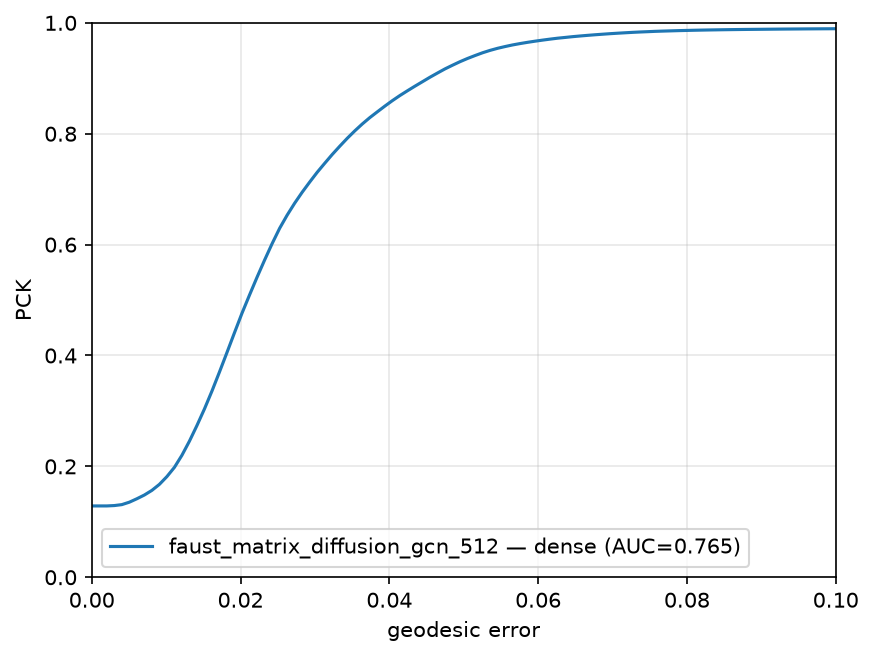
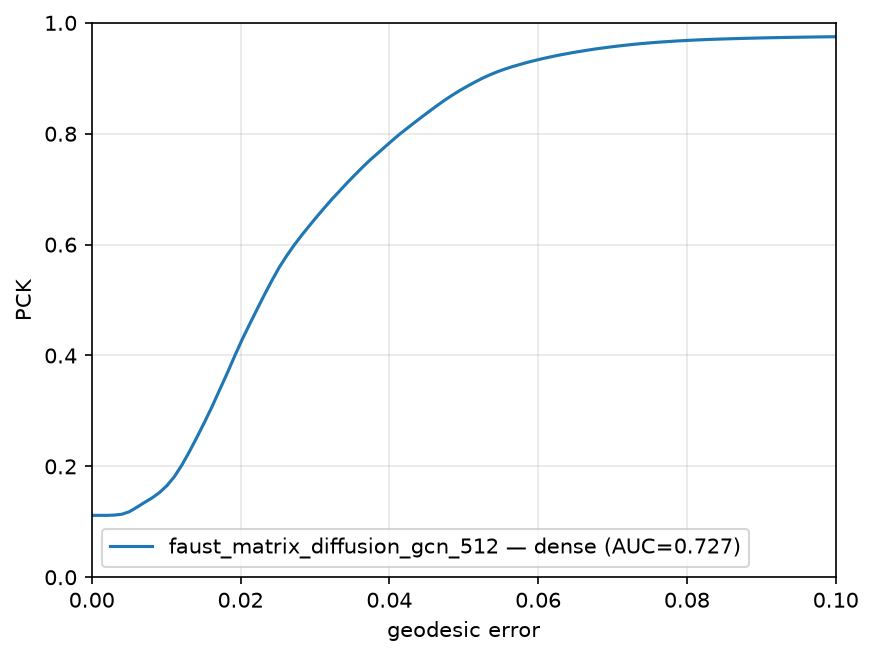
WKS Dense Feature Eval
Evaluated the inital 512 vert sparse correspondences using WKS as the
dense feature representation.

diff --git a/utils/spectral_features.py b/utils/spectral_features.py
@@ -1,0 +1,33 @@
+"""Spectral point descriptors from the Laplace-Beltrami eigen-decomposition.
+
+These are intrinsic (isometry-invariant) and directly comparable across shapes, computed from
+the cached LBO spectrum (evals, evecs) that the datasets already load under ret_evecs. Used as a
+non-learned, network-free feature source for the densifier's data term.
+"""
+import torch
+
+
+def wks(evals: torch.Tensor, evecs: torch.Tensor, n_e: int = 100,
+        variance: float = 7.0, eps: float = 1e-8) -> torch.Tensor:
+    """Wave Kernel Signature per vertex (Aubry et al. 2011), auto energy range.
+
+    Follows the standard auto-WKS: n_e energy samples spread over the log-eigenvalue range with a
+    Gaussian band of width sigma = variance * (e_max - e_min) / n_e, the ends trimmed by 2 sigma.
+
+    Args:
+        evals: (K,) LBO eigenvalues, ascending and non-negative (the leading near-zero mode is
+            fine -- its log falls far below the energy range and contributes negligibly).
+        evecs: (N, K) LBO eigenvectors aligned to evals.
+        n_e: number of energy samples = descriptor dimension.
+        variance: energy-band width factor (7 in the reference implementation).
+
+    Returns (N, n_e) descriptors.
+    """
+    log_ev = torch.log(evals.abs().clamp_min(eps))              # (K,)
+    e_min, e_max = log_ev[1], log_ev[-1]                        # skip the ~0 leading eigenvalue
+    sigma = variance * (e_max - e_min) / n_e
+    energies = torch.linspace(e_min + 2 * sigma, e_max - 2 * sigma, n_e, device=evals.device)
+    # coefs[k, i] = exp(-(e_i - log lambda_k)^2 / 2 sigma^2)
+    coefs = torch.exp(-(energies[None, :] - log_ev[:, None]) ** 2 / (2 * sigma ** 2 + eps))  # (K, n_e)
+    desc = (evecs ** 2) @ coefs                                 # (N, n_e)
+    return desc / coefs.sum(0, keepdim=True).clamp_min(eps)     # per-energy normalisation

diff --git a/densifiers/row_stochastic.py b/densifiers/row_stochastic.py
@@ -19,6 +19,7 @@ feat_weight=0. Non-learned, out of the loss (steps.md Step 3).
 import torch
 
 from utils.registry import DENSIFIER_REGISTRY
+from utils.spectral_features import wks
 from .base_densifier import BaseDensifier, DensifyContext
 
 
@@ -38,7 +39,23 @@ class RowStochasticDensifier(BaseDensifier):
         self.feat_weight = o.get('feat_weight', 1.0)  # 0 disables the data term (prior only)
         self.chunk = o.get('chunk', 512)          # Y-vertex rows scored per block (memory bound)
         self.top_c = o.get('top_c', 8)            # candidates kept per row in soft_map
+        self.wks_n = o.get('wks_n', 100)          # WKS descriptor dim, when feat_source == 'wks'
         self.eps = o.get('eps', 1e-12)
+
+    def _resolve_feats(self, ctx, dev):
+        """Dense per-vertex features (fx (N_x,d), fy (N_y,d)) for the data term, per feat_source.
+        'frozen'/'gcn' read ctx.feat_x/feat_y (the model fills 'gcn' densely beforehand); 'wks'
+        computes the Wave Kernel Signature here from the LBO spectrum. Returns (None, None) when
+        the needed fields are absent, disabling the data term (prior only)."""
+        if self.feat_source == 'wks':
+            if ctx.evecs_x is None or ctx.evals_x is None or ctx.evecs_y is None or ctx.evals_y is None:
+                raise ValueError("feat_source='wks' needs ctx.evecs/evals -- enable ret_evecs in the dataset")
+            fx = wks(ctx.evals_x.to(dev).float(), ctx.evecs_x.to(dev).float(), self.wks_n)
+            fy = wks(ctx.evals_y.to(dev).float(), ctx.evecs_y.to(dev).float(), self.wks_n)
+            return fx, fy
+        if ctx.feat_x is None or ctx.feat_y is None:
+            return None, None
+        return ctx.feat_x.to(dev).float(), ctx.feat_y.to(dev).float()
 
     def _prepare(self, sparse_p2p, ctx):
         assert ctx.dist_x is not None and ctx.dist_y is not None, \
@@ -64,9 +81,8 @@ class RowStochasticDensifier(BaseDensifier):
 
         pre = dict(dev=dev, a_idx=a_idx, w=w, m=m, Gker=Gker, fx=None, fy=None, inv_f=0.0)
 
-        use_feat = self.feat_weight > 0 and ctx.feat_x is not None and ctx.feat_y is not None
-        if use_feat:
-            fx, fy = ctx.feat_x.to(dev).float(), ctx.feat_y.to(dev).float()
+        fx, fy = self._resolve_feats(ctx, dev)
+        if self.feat_weight > 0 and fx is not None and fy is not None:
             if self.sigma_f is not None:
                 sigma_f = torch.as_tensor(float(self.sigma_f), device=dev)
             else:  # median feature distance from a Y vertex to its nearest anchor's X match

diff --git a/densifiers/base_densifier.py b/densifiers/base_densifier.py
@@ -46,13 +46,22 @@ class DensifyContext:
 class BaseDensifier(ABC):
     """Lift a sparse p2p to a dense whole-shape p2p. Subclasses register in DENSIFIER_REGISTRY."""
 
+    FEAT_SOURCES = ('frozen', 'gcn', 'wks')
+
     def __init__(self, opt: Optional[dict] = None):
         self.opt = opt or {}
-        # Feature source for any data term: True asks the caller to fill ctx.feat_x/feat_y with
-        # DENSE GCN descriptors (one patch per full-mesh vertex) instead of the frozen .npy
-        # field. Declared here but fulfilled by the model, which owns the extractor network; a
-        # densifier with no data term simply ignores it.
-        self.gcn_feats = self.opt.get('gcn_feats', False)
+        # Feature source for any data term:
+        #   'frozen' -- the loaded .npy field (ctx.feat_x/feat_y as-is).
+        #   'gcn'    -- dense GCN descriptors (one patch per vertex). The densifier cannot
+        #               produce these itself; it declares the need and the model, which owns the
+        #               extractor, fills ctx.feat_x/feat_y before densify (see self.gcn_feats).
+        #   'wks'    -- Wave Kernel Signature, computed by the densifier from ctx.evecs/evals
+        #               (network-free; needs the dataset's ret_evecs).
+        # A densifier with no data term simply ignores this.
+        self.feat_source = self.opt.get('feat_source', 'frozen')
+        if self.feat_source not in self.FEAT_SOURCES:
+            raise ValueError(f"feat_source must be one of {self.FEAT_SOURCES}, got {self.feat_source!r}")
+        self.gcn_feats = self.feat_source == 'gcn'   # the only source needing model fulfilment
 
     @abstractmethod
     def densify(self, sparse_p2p: torch.Tensor, ctx: DensifyContext) -> torch.Tensor: